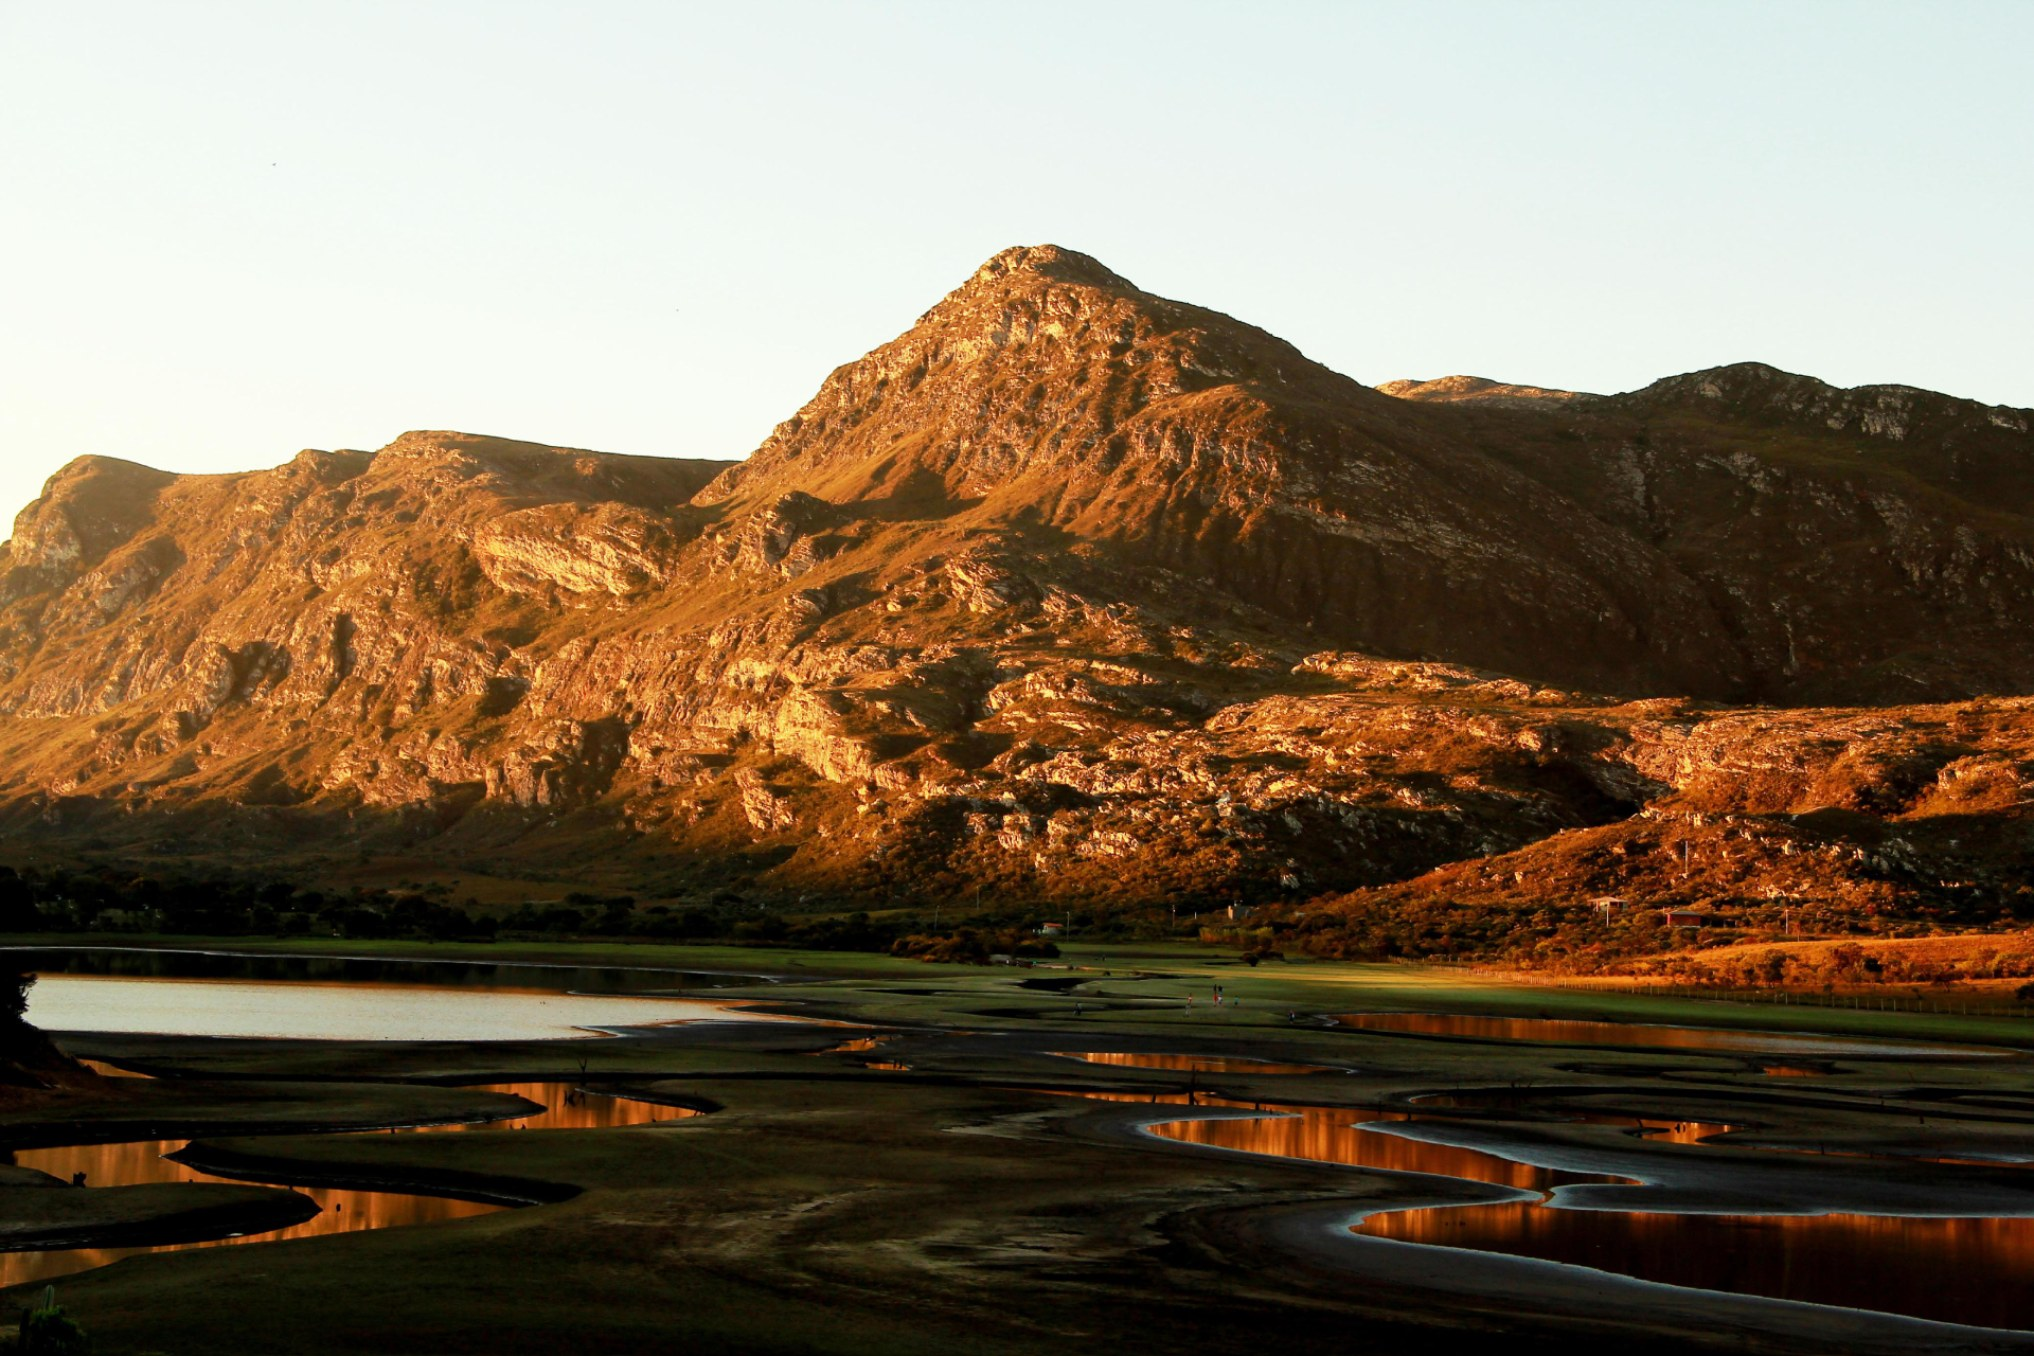
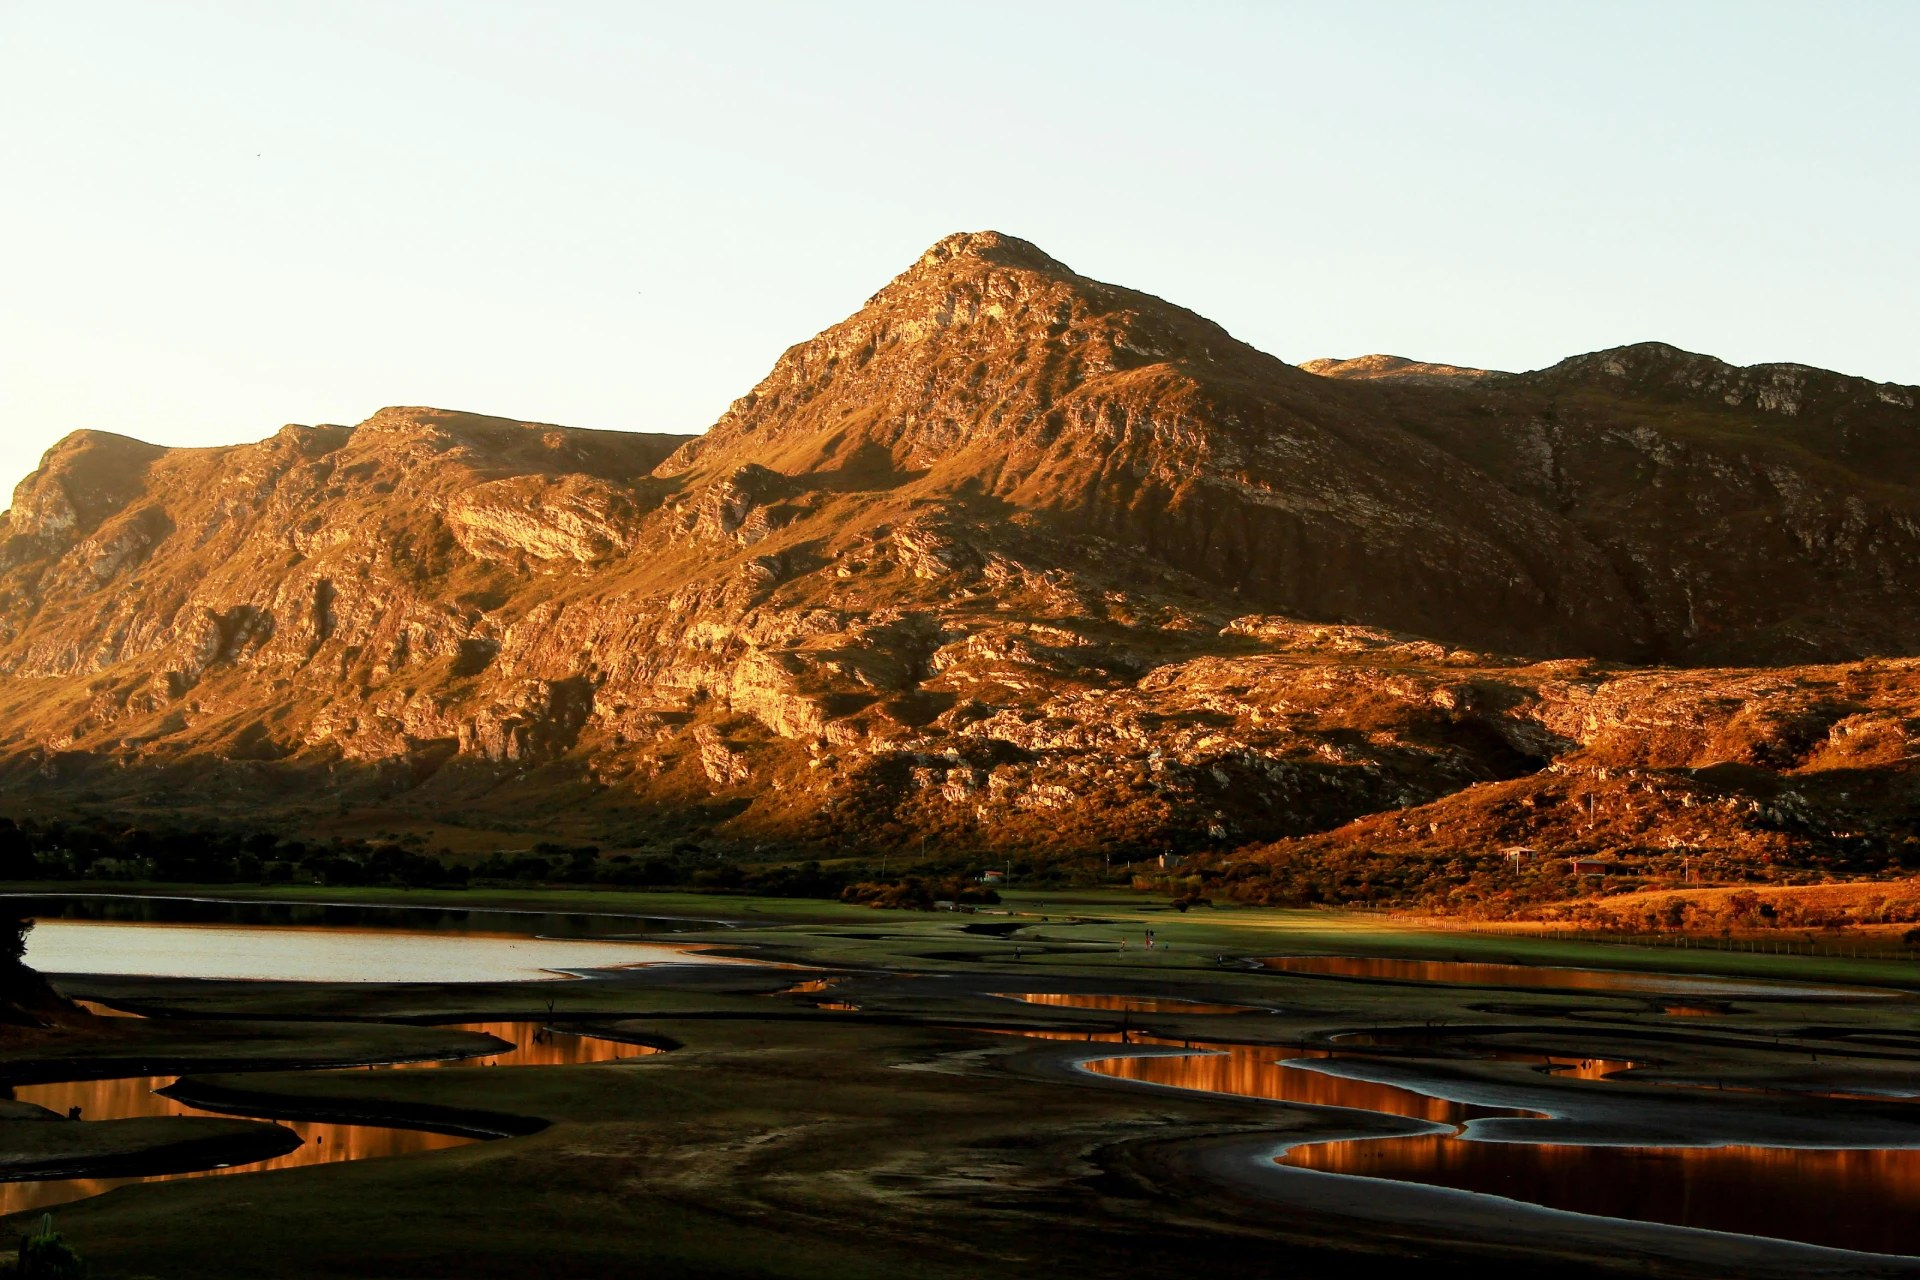
Faixa da Lapinha com a foto enviada (1920x1280), na íntegra
Claude-Session: https://claude.ai/code/session_01BLoLdSSSjUZ36GzzASLwuS

diff --git a/site/index.html b/site/index.html
@@ -24,7 +24,7 @@
      recomendado para produção). Para regenerar após mudar classes no HTML:
      npx tailwindcss@3.4.17 --minify -o css/tailwind.css --content "index.html,js/*.js" -->
 <link rel="stylesheet" href="css/tailwind.css">
-<link rel="stylesheet" href="css/style.css?v=20261125i">
+<link rel="stylesheet" href="css/style.css?v=20261125j">
 </head>
 <body class="bg-stone-50 text-stone-600 antialiased">
 
@@ -823,7 +823,7 @@
   <figure class="sx-figure sx-figure--foto">
     <img class="sx-foto"
       src="assets/images/lapinha-da-serra.jpg"
-      alt="Lapinha da Serra ao entardecer" width="2034" height="1356"
+      alt="Lapinha da Serra ao entardecer" width="1920" height="1280"
       loading="lazy"
     />
   </figure>
@@ -1135,9 +1135,9 @@
 <!-- ═══════════════════════════════════════════════════
      JS · SITE (extraído dos <script> inline)
 ═══════════════════════════════════════════════════ -->
-<script src="js/i18n.js?v=20261125i"></script>
-<script src="js/main.js?v=20261125i"></script>
-<script src="js/disponibilidade.js?v=20261125i"></script>
+<script src="js/i18n.js?v=20261125j"></script>
+<script src="js/main.js?v=20261125j"></script>
+<script src="js/disponibilidade.js?v=20261125j"></script>
 
 <!-- ═══════════════════════════════════════════════════
      BOOKING POPUP — abre ao clicar em Reservar
